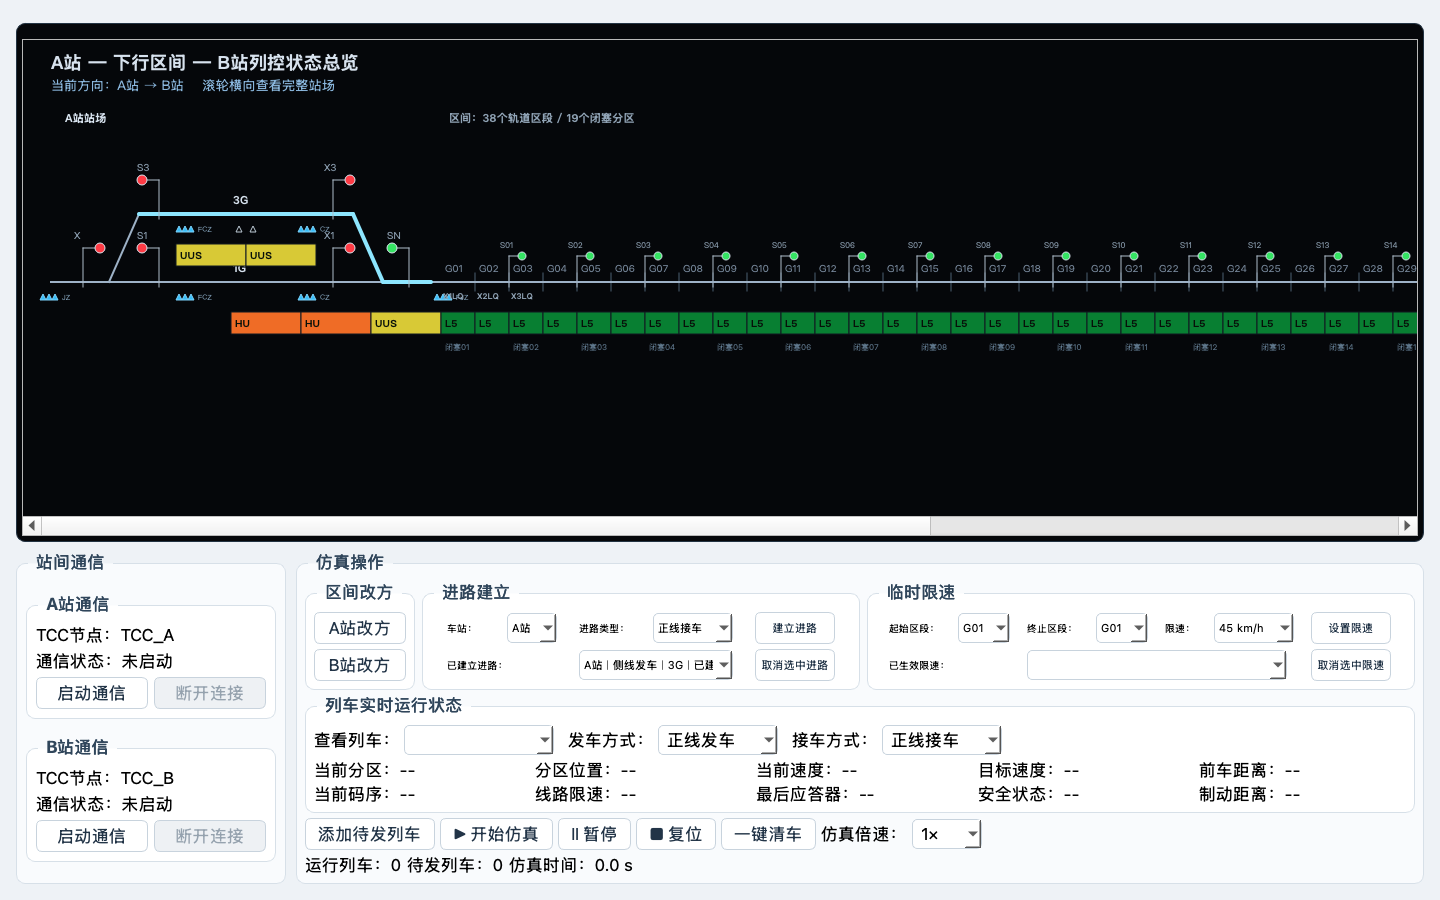
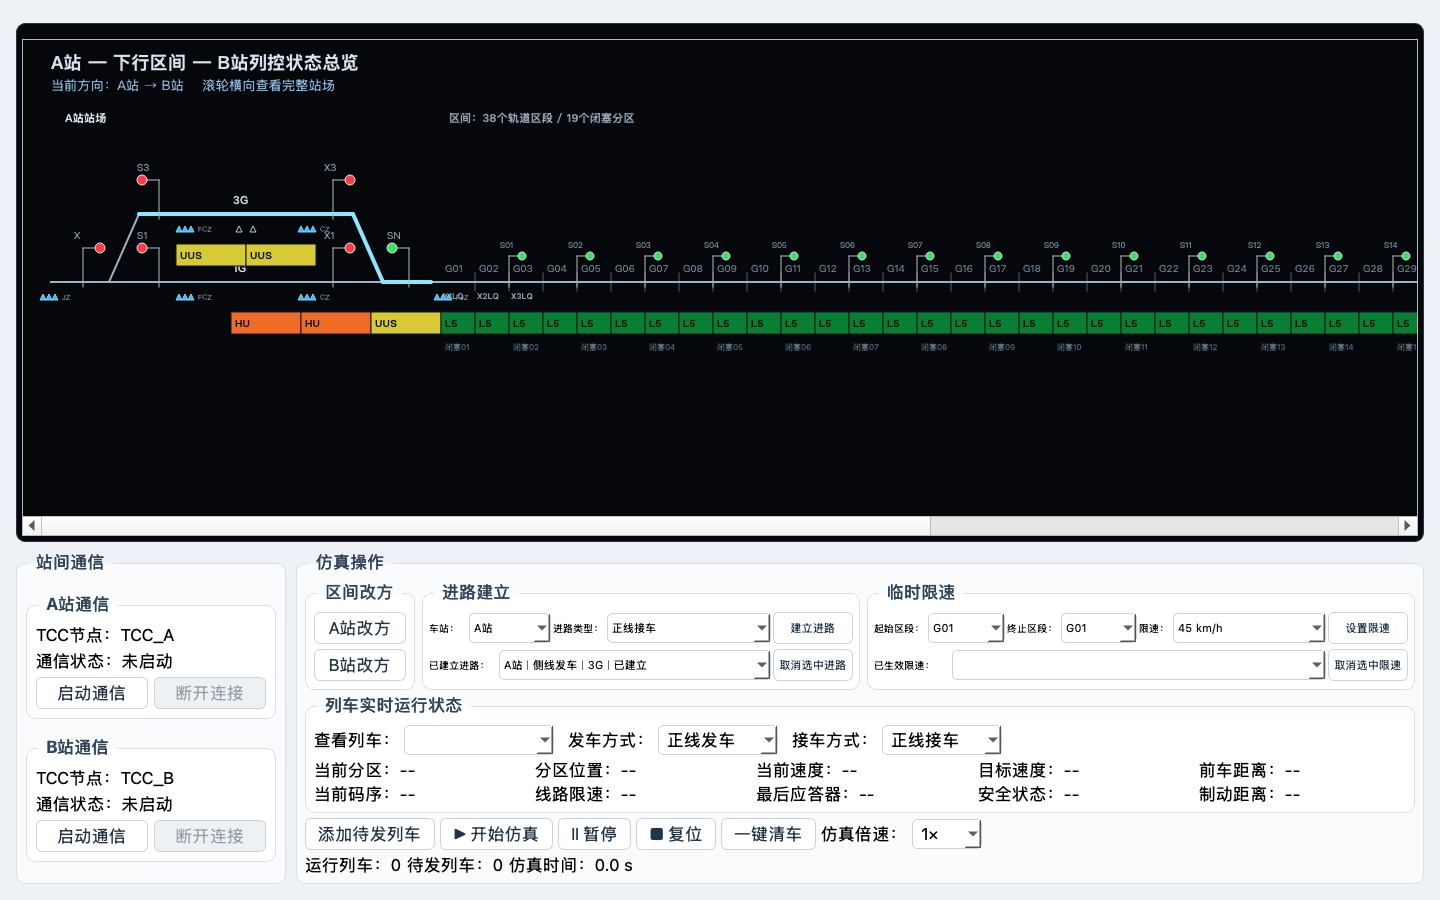
fix: expand route and speed selectors

Changed region(s): [[0.2812, 0.6844, 0.9688, 0.7467]]

diff --git a/ui/main_window.py b/ui/main_window.py
@@ -249,30 +249,35 @@ class MainWindow(QMainWindow):
         route_group = QGroupBox("进路建立")
         route_group.setObjectName("route_management_area")
         route_group.setMinimumWidth(320)
-        route_layout = QGridLayout(route_group)
+        route_layout = QVBoxLayout(route_group)
         route_layout.setContentsMargins(6, 8, 6, 8)
-        route_layout.setHorizontalSpacing(4)
-        route_layout.setVerticalSpacing(5)
+        route_layout.setSpacing(5)
+        route_setting_layout = QHBoxLayout()
+        route_setting_layout.setSpacing(2)
 
         self.route_station_label = QLabel("车站：")
         self.route_station_label.setFixedWidth(38)
         self.route_station_label.setStyleSheet("font-size: 10px;")
-        route_layout.addWidget(self.route_station_label, 0, 0)
+        route_setting_layout.addWidget(self.route_station_label)
 
         self.route_station_combo = QComboBox()
         self.route_station_combo.setObjectName("route_station")
         self.route_station_combo.addItems(["A站", "B站"])
         self.route_station_combo.setToolTip("选择需要办理进路的车站")
-        self.route_station_combo.setFixedWidth(50)
+        self.route_station_combo.setMinimumWidth(50)
+        self.route_station_combo.setSizePolicy(
+            QSizePolicy.Expanding,
+            QSizePolicy.Fixed,
+        )
         self.route_station_combo.setStyleSheet(
             "font-size: 11px; padding-left: 4px; padding-right: 3px;"
         )
-        route_layout.addWidget(self.route_station_combo, 0, 1)
+        route_setting_layout.addWidget(self.route_station_combo, 1)
 
         self.route_type_label = QLabel("进路类型：")
         self.route_type_label.setFixedWidth(52)
         self.route_type_label.setStyleSheet("font-size: 10px;")
-        route_layout.addWidget(self.route_type_label, 0, 2)
+        route_setting_layout.addWidget(self.route_type_label)
 
         self.route_type_combo = QComboBox()
         self.route_type_combo.setObjectName("route_type")
@@ -280,23 +285,31 @@ class MainWindow(QMainWindow):
             ["正线接车", "侧线接车", "正线发车", "侧线发车"]
         )
         self.route_type_combo.setToolTip("选择接车或发车进路类型")
-        self.route_type_combo.setFixedWidth(80)
+        self.route_type_combo.setMinimumWidth(80)
+        self.route_type_combo.setSizePolicy(
+            QSizePolicy.Expanding,
+            QSizePolicy.Fixed,
+        )
         self.route_type_combo.setStyleSheet(
             "font-size: 11px; padding-left: 4px; padding-right: 3px;"
         )
-        route_layout.addWidget(self.route_type_combo, 0, 3)
+        route_setting_layout.addWidget(self.route_type_combo, 2)
 
         self.route_establish_button = QPushButton("建立进路")
         self.route_establish_button.setObjectName("route_establish_button")
         self.route_establish_button.setToolTip("建立所选车站进路")
         self.route_establish_button.setFixedWidth(80)
         self.route_establish_button.setStyleSheet("font-size: 11px; padding: 0 5px;")
-        route_layout.addWidget(self.route_establish_button, 0, 4)
+        route_setting_layout.addWidget(self.route_establish_button)
+        route_layout.addLayout(route_setting_layout)
+
+        active_route_layout = QHBoxLayout()
+        active_route_layout.setSpacing(2)
 
         self.active_route_label = QLabel("已建立进路：")
         self.active_route_label.setFixedWidth(68)
         self.active_route_label.setStyleSheet("font-size: 10px;")
-        route_layout.addWidget(self.active_route_label, 1, 0, 1, 2)
+        active_route_layout.addWidget(self.active_route_label)
 
         self.active_route_combo = QComboBox()
         self.active_route_combo.setObjectName("active_route")
@@ -305,88 +318,111 @@ class MainWindow(QMainWindow):
             "font-size: 11px; padding-left: 4px; padding-right: 3px;"
         )
         self.active_route_combo.setMinimumWidth(130)
-        self.active_route_combo.setMaximumWidth(220)
+        self.active_route_combo.setSizePolicy(
+            QSizePolicy.Expanding,
+            QSizePolicy.Fixed,
+        )
         self.active_route_combo.setSizeAdjustPolicy(
             QComboBox.AdjustToMinimumContentsLengthWithIcon
         )
         self.active_route_combo.setMinimumContentsLength(20)
-        route_layout.addWidget(self.active_route_combo, 1, 2, 1, 2)
+        active_route_layout.addWidget(self.active_route_combo, 1)
 
         self.route_cancel_button = QPushButton("取消选中进路")
         self.route_cancel_button.setObjectName("route_cancel_button")
         self.route_cancel_button.setToolTip("取消列车尚未进入的所选进路")
         self.route_cancel_button.setFixedWidth(80)
         self.route_cancel_button.setStyleSheet("font-size: 11px; padding: 0 5px;")
-        route_layout.addWidget(self.route_cancel_button, 1, 4)
-        route_layout.setColumnStretch(3, 1)
+        active_route_layout.addWidget(self.route_cancel_button)
+        route_layout.addLayout(active_route_layout)
 
         equipment_group = QGroupBox(
             "临时限速"
         )
         equipment_group.setObjectName("temporary_speed_area")
         equipment_group.setMinimumWidth(424)
-        equipment_layout = QGridLayout(equipment_group)
+        equipment_layout = QVBoxLayout(equipment_group)
         equipment_layout.setContentsMargins(6, 8, 6, 8)
-        equipment_layout.setHorizontalSpacing(2)
-        equipment_layout.setVerticalSpacing(5)
+        equipment_layout.setSpacing(5)
+        tsr_setting_layout = QHBoxLayout()
+        tsr_setting_layout.setSpacing(2)
 
         self.tsr_start_label = QLabel("起始区段：")
         self.tsr_start_label.setFixedWidth(52)
         self.tsr_start_label.setStyleSheet("font-size: 10px;")
-        equipment_layout.addWidget(self.tsr_start_label, 0, 0)
+        tsr_setting_layout.addWidget(self.tsr_start_label)
         self.tsr_start_combo = QComboBox()
         self.tsr_start_combo.setObjectName("tsr_start_section")
         self.tsr_start_combo.addItems([f"G{i:02d}" for i in range(1, 39)])
-        self.tsr_start_combo.setFixedWidth(52)
+        self.tsr_start_combo.setMinimumWidth(52)
+        self.tsr_start_combo.setSizePolicy(
+            QSizePolicy.Expanding,
+            QSizePolicy.Fixed,
+        )
         self.tsr_start_combo.setStyleSheet(
             "font-size: 11px; padding-left: 4px; padding-right: 3px;"
         )
         self.tsr_start_combo.setToolTip("临时限速起始区段")
-        equipment_layout.addWidget(self.tsr_start_combo, 0, 1)
+        tsr_setting_layout.addWidget(self.tsr_start_combo, 1)
 
         self.tsr_end_label = QLabel("终止区段：")
         self.tsr_end_label.setFixedWidth(52)
         self.tsr_end_label.setStyleSheet("font-size: 10px;")
-        equipment_layout.addWidget(self.tsr_end_label, 0, 2)
+        tsr_setting_layout.addWidget(self.tsr_end_label)
         self.tsr_end_combo = QComboBox()
         self.tsr_end_combo.setObjectName("tsr_end_section")
         self.tsr_end_combo.addItems([f"G{i:02d}" for i in range(1, 39)])
-        self.tsr_end_combo.setFixedWidth(52)
+        self.tsr_end_combo.setMinimumWidth(52)
+        self.tsr_end_combo.setSizePolicy(
+            QSizePolicy.Expanding,
+            QSizePolicy.Fixed,
+        )
         self.tsr_end_combo.setStyleSheet(
             "font-size: 11px; padding-left: 4px; padding-right: 3px;"
         )
         self.tsr_end_combo.setToolTip("临时限速终止区段")
-        equipment_layout.addWidget(self.tsr_end_combo, 0, 3)
+        tsr_setting_layout.addWidget(self.tsr_end_combo, 1)
 
         self.tsr_speed_label = QLabel("限速：")
         self.tsr_speed_label.setFixedWidth(32)
         self.tsr_speed_label.setStyleSheet("font-size: 10px;")
-        equipment_layout.addWidget(self.tsr_speed_label, 0, 4)
+        tsr_setting_layout.addWidget(self.tsr_speed_label)
         self.tsr_speed_combo = QComboBox()
         self.tsr_speed_combo.setObjectName("tsr_speed")
         self.tsr_speed_combo.addItems(["45 km/h", "80 km/h", "120 km/h", "160 km/h", "200 km/h", "250 km/h"])
-        self.tsr_speed_combo.setFixedWidth(80)
+        self.tsr_speed_combo.setMinimumWidth(80)
+        self.tsr_speed_combo.setSizePolicy(
+            QSizePolicy.Expanding,
+            QSizePolicy.Fixed,
+        )
         self.tsr_speed_combo.setStyleSheet(
             "font-size: 11px; padding-left: 4px; padding-right: 3px;"
         )
         self.tsr_speed_combo.setToolTip("临时限速值")
-        equipment_layout.addWidget(self.tsr_speed_combo, 0, 5)
+        tsr_setting_layout.addWidget(self.tsr_speed_combo, 2)
 
         self.tsr_apply_button = QPushButton("设置限速")
         self.tsr_apply_button.setObjectName("tsr_apply_button")
         self.tsr_apply_button.setToolTip("设置所选区段范围的临时限速")
         self.tsr_apply_button.setFixedWidth(80)
         self.tsr_apply_button.setStyleSheet("font-size: 11px; padding: 0 5px;")
-        equipment_layout.addWidget(self.tsr_apply_button, 0, 6)
+        tsr_setting_layout.addWidget(self.tsr_apply_button)
+        equipment_layout.addLayout(tsr_setting_layout)
+
+        active_tsr_layout = QHBoxLayout()
+        active_tsr_layout.setSpacing(2)
 
         self.active_tsr_label = QLabel("已生效限速：")
         self.active_tsr_label.setFixedWidth(76)
         self.active_tsr_label.setStyleSheet("font-size: 10px;")
-        equipment_layout.addWidget(self.active_tsr_label, 1, 0, 1, 2)
+        active_tsr_layout.addWidget(self.active_tsr_label)
         self.active_tsr_combo = QComboBox()
         self.active_tsr_combo.setObjectName("active_tsr")
         self.active_tsr_combo.setMinimumWidth(150)
-        self.active_tsr_combo.setMaximumWidth(260)
+        self.active_tsr_combo.setSizePolicy(
+            QSizePolicy.Expanding,
+            QSizePolicy.Fixed,
+        )
         self.active_tsr_combo.setSizeAdjustPolicy(
             QComboBox.AdjustToMinimumContentsLengthWithIcon
         )
@@ -394,15 +430,15 @@ class MainWindow(QMainWindow):
         self.active_tsr_combo.setStyleSheet(
             "font-size: 11px; padding-left: 4px; padding-right: 3px;"
         )
-        equipment_layout.addWidget(self.active_tsr_combo, 1, 2, 1, 4)
+        active_tsr_layout.addWidget(self.active_tsr_combo, 1)
 
         self.tsr_cancel_button = QPushButton("取消选中限速")
         self.tsr_cancel_button.setObjectName("tsr_cancel_button")
         self.tsr_cancel_button.setToolTip("取消当前选中的临时限速")
         self.tsr_cancel_button.setFixedWidth(80)
         self.tsr_cancel_button.setStyleSheet("font-size: 11px; padding: 0 5px;")
-        equipment_layout.addWidget(self.tsr_cancel_button, 1, 6)
-        equipment_layout.setColumnStretch(5, 1)
+        active_tsr_layout.addWidget(self.tsr_cancel_button)
+        equipment_layout.addLayout(active_tsr_layout)
 
         self.operation_top_layout.addWidget(direction_group, 1)
         self.operation_top_layout.addWidget(route_group, 4)

diff --git a/tests/test_phase1_ui.py b/tests/test_phase1_ui.py
@@ -444,10 +444,19 @@ class PhaseOneUiContractTest(unittest.TestCase):
             ],
             ["正线接车", "侧线接车", "正线发车", "侧线发车"],
         )
-        self.assertLessEqual(window.route_type_combo.maximumWidth(), 132)
-        self.assertLessEqual(window.active_route_combo.maximumWidth(), 330)
-        self.assertLessEqual(window.tsr_speed_combo.maximumWidth(), 120)
-        self.assertLessEqual(window.active_tsr_combo.maximumWidth(), 360)
+        for combo in (
+            window.route_station_combo,
+            window.route_type_combo,
+            window.active_route_combo,
+            window.tsr_start_combo,
+            window.tsr_end_combo,
+            window.tsr_speed_combo,
+            window.active_tsr_combo,
+        ):
+            self.assertEqual(
+                combo.sizePolicy().horizontalPolicy(),
+                QSizePolicy.Expanding,
+            )
         self.assertEqual(window.route_station_label.text(), "车站：")
         self.assertEqual(window.route_type_label.text(), "进路类型：")
         self.assertEqual(window.active_route_label.text(), "已建立进路：")
@@ -483,6 +492,50 @@ class PhaseOneUiContractTest(unittest.TestCase):
             [window.speed_combo.itemText(index) for index in range(window.speed_combo.count())],
             ["0.5×", "1×", "2×", "5×", "10×", "20×"],
         )
+        window.close()
+
+    def test_route_and_speed_combos_fill_space_between_labels_and_actions(self):
+        window = MainWindow()
+        window.resize(1440, 900)
+        window.show()
+        self.app.processEvents()
+
+        def horizontal_gap(left_widget, right_widget):
+            return right_widget.x() - (left_widget.x() + left_widget.width())
+
+        adjacent_pairs = (
+            (window.route_station_label, window.route_station_combo),
+            (window.route_station_combo, window.route_type_label),
+            (window.route_type_label, window.route_type_combo),
+            (window.route_type_combo, window.route_establish_button),
+            (window.active_route_label, window.active_route_combo),
+            (window.active_route_combo, window.route_cancel_button),
+            (window.tsr_start_label, window.tsr_start_combo),
+            (window.tsr_start_combo, window.tsr_end_label),
+            (window.tsr_end_label, window.tsr_end_combo),
+            (window.tsr_end_combo, window.tsr_speed_label),
+            (window.tsr_speed_label, window.tsr_speed_combo),
+            (window.tsr_speed_combo, window.tsr_apply_button),
+            (window.active_tsr_label, window.active_tsr_combo),
+            (window.active_tsr_combo, window.tsr_cancel_button),
+        )
+        for left_widget, right_widget in adjacent_pairs:
+            gap = horizontal_gap(left_widget, right_widget)
+            self.assertGreaterEqual(gap, 0)
+            self.assertLessEqual(gap, 4)
+
+        expected_minimum_widths = {
+            window.route_station_combo: 51,
+            window.route_type_combo: 81,
+            window.active_route_combo: 221,
+            window.tsr_start_combo: 53,
+            window.tsr_end_combo: 53,
+            window.tsr_speed_combo: 81,
+            window.active_tsr_combo: 261,
+        }
+        for combo, minimum_width in expected_minimum_widths.items():
+            self.assertGreaterEqual(combo.width(), minimum_width)
+
         window.close()
 
     def test_route_panel_establishes_and_cancels_selected_route(self):

diff --git a/docs/TCC功能仿真实现方案.md b/docs/TCC功能仿真实现方案.md
@@ -37,7 +37,7 @@
 - A、B 两站在界面上完全对等，不显示通信角色，按钮统一为“启动通信”。本轮最先启动者在内部作为 Server 监听 9000，后启动者作为 Client 自动连接；任一方断开时双方共同复位，下一轮重新按启动顺序选举。
 - 有源应答器只允许从 2D 长图点击查看，不在操作区重复设置按钮。
 - 复位按钮后设置“一键清车”；查看列车同一行提供正线/侧线发车和正线/侧线接车选择。
-- 操作区首行依次为“区间改方”“进路建立”“临时限速”，宽度比例固定为 `1:4:5`。进路项显示“车站、进路类型、已建立进路”，限速项显示“起始区段、终止区段、限速、已生效限速”；无活动进路时下拉框为空。下拉框按内容限制宽度和内边距，保证 G01、45 km/h 与按钮文字在最小窗口下完整显示。
+- 操作区首行依次为“区间改方”“进路建立”“临时限速”，宽度比例固定为 `1:4:5`。进路项显示“车站、进路类型、已建立进路”，限速项显示“起始区段、终止区段、限速、已生效限速”；无活动进路时下拉框为空。各行标签冒号后立即连接下拉框，下拉框自适应填满至下一标签或右侧按钮；右端对齐固定，最小窗口下仍保证 G01、45 km/h 与按钮文字完整显示。
 - 列车状态固定为两行五列；前车距离置于第一行、制动距离置于第二行，不再单独占用第三行。
 - “查看列车、发车方式、接车方式”的文字与下拉栏紧邻排列，组内间距不超过 5 px，剩余空间留在整行末端。
 
@@ -224,7 +224,7 @@ Codex 提示词：
 
 验收：四类进路均可建立/取消；冲突和占用时拒绝；无进路列车不能移动。
 
-完成结果：已实现四类进路、同站/对向发车冲突、未锁闭取消、列车进入后锁闭、驶过自动释放、无进路禁发、正/侧线独立接发选择，以及信号、区间与站内编码、有源应答器和改方联动。顶部操作区最终按 `1:4:5` 布局，2D 站场显示贴轨进路高亮，站内主线码带与区间连续。详细记录见 `docs/phases/PHASE-03.md`，53 项自动测试与双尺寸截图验收通过。
+完成结果：已实现四类进路、同站/对向发车冲突、未锁闭取消、列车进入后锁闭、驶过自动释放、无进路禁发、正/侧线独立接发选择，以及信号、区间与站内编码、有源应答器和改方联动。顶部操作区最终按 `1:4:5` 布局，进路和限速选择框在标签与按钮之间自适应铺满；2D 站场显示贴轨进路高亮，站内主线码带与区间连续。详细记录见 `docs/phases/PHASE-03.md`，54 项自动测试与双尺寸截图验收通过。
 
 Codex 提示词：
 

diff --git a/docs/phases/PHASE-03.md b/docs/phases/PHASE-03.md
@@ -44,7 +44,7 @@
 
 ## UI 与 2D 表现
 
-操作区顶部依次为“区间改方”“进路建立”“临时限速”，最终伸缩比例为 `1:4:5`。进路区域采用两行紧凑布局，三个选择项分别标注“车站：”“进路类型：”“已建立进路：”；临时限速完整标注“起始区段：”“终止区段：”“限速：”“已生效限速：”。活动进路文字格式为 `A站｜正线发车｜1G｜已建立`，锁闭后显示“已锁闭”；没有活动进路时选择框保持空白。控件使用紧凑内边距和受控宽度，G01、45 km/h 及按钮文字在 1180×760 下仍完整显示。
+操作区顶部依次为“区间改方”“进路建立”“临时限速”，最终伸缩比例为 `1:4:5`。进路区域采用两行紧凑布局，三个选择项分别标注“车站：”“进路类型：”“已建立进路：”；临时限速完整标注“起始区段：”“终止区段：”“限速：”“已生效限速：”。活动进路文字格式为 `A站｜正线发车｜1G｜已建立`，锁闭后显示“已锁闭”；没有活动进路时选择框保持空白。两块区域的每一行使用独立水平布局，标签冒号后立即接选择框，选择框向右填满至下一标签或操作按钮；推荐窗口下充分展开，1180×760 下按最小可读宽度收缩且不遮挡。
 
 后续修订将 `X1LQ～X3LQ`、`X1JG～X3JG` 纳入既有 38 个物理区段：分别作为 G01～G03、G36～G38 的第二行设备名，全部区段统一为 34 px 显示宽度。A/B 站的 1G、3G 和区间侧咽喉增加低频码带，主线码带与区间码带同高且无缝衔接；每站按固定设备位置绘制 JZ、FJZ、X1/X3 对应 CZ、S1/S3 对应 FCZ，每组均为 3 枚紧凑有源应答器，放在钢轨与码带之间并保留独立点击区域。
 
@@ -54,7 +54,7 @@
 
 ## 验证结果
 
-- 自动测试：本阶段初验 47 项全部通过；布局、站内编码、完整 L4 码序、应答器位置和控件可读性修订后扩展为 53 项。
+- 自动测试：本阶段初验 47 项全部通过；布局、站内编码、完整 L4 码序、应答器位置和自适应控件宽度修订后扩展为 54 项。
 - 语法检查：进路、列车、信号、改方和 UI 关键模块全部通过 `py_compile`。
 - 业务脚本：A 正线发车、A 侧线发车、B 正线接车、B 侧线接车、未进入取消、进入后拒绝取消、驶过释放、无进路禁发、冲突改方拒绝和合法改方成功全部通过。
 - 视觉检查：1440×900 与 1180×760 均无控件裁切或重叠；活动进路可读；站场高亮不遮挡设备。

diff --git a/PROGRESS.md b/PROGRESS.md
@@ -69,12 +69,13 @@
 - “进路建立”三个选择项和“临时限速”四个选择项均使用完整说明文字；无活动进路时下拉框保持空白，不再显示占位文案。
 - 已按 1180×760 最小窗口重新压缩控件内边距和宽度，G01、45 km/h、建立/取消按钮均完整显示，三板块继续保持 `1:4:5`。
 - A/B 站主线码带与区间码带在同一高度无缝相接；有源应答器缩小为紧凑三角形组，并固定在钢轨与码带之间。
+- 进路建立与临时限速改为逐行自适应布局：标签冒号后立即连接选择框，选择框横向填满至下一标签或右侧操作按钮，右端基准保持整齐；最小窗口下按最小可读宽度收缩。
 
 ## 最近验证
 
 ```text
 .venv/bin/python -m unittest discover -s tests -v
-Ran 53 tests
+Ran 54 tests
 OK
 ```
 
